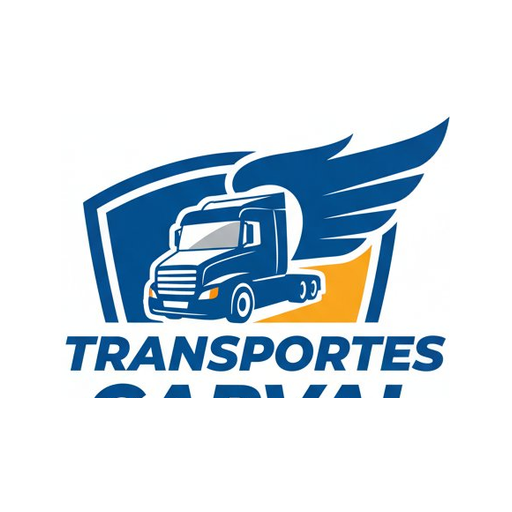
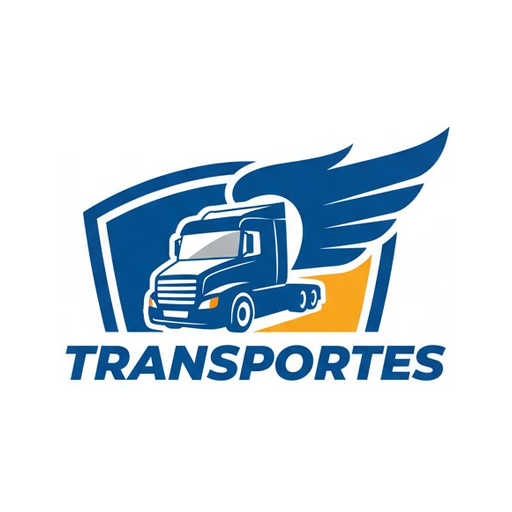
Fix: icono de app sin texto cortado + bump v6

Changed region(s): [[0.125, 0.2188, 0.875, 0.7812]]

diff --git a/sw.js b/sw.js
@@ -1,4 +1,4 @@
-const CACHE = 'viajes-v5';
+const CACHE = 'viajes-v6';
 const ASSETS = [
   '/registro-viajes/',
   '/registro-viajes/index.html',